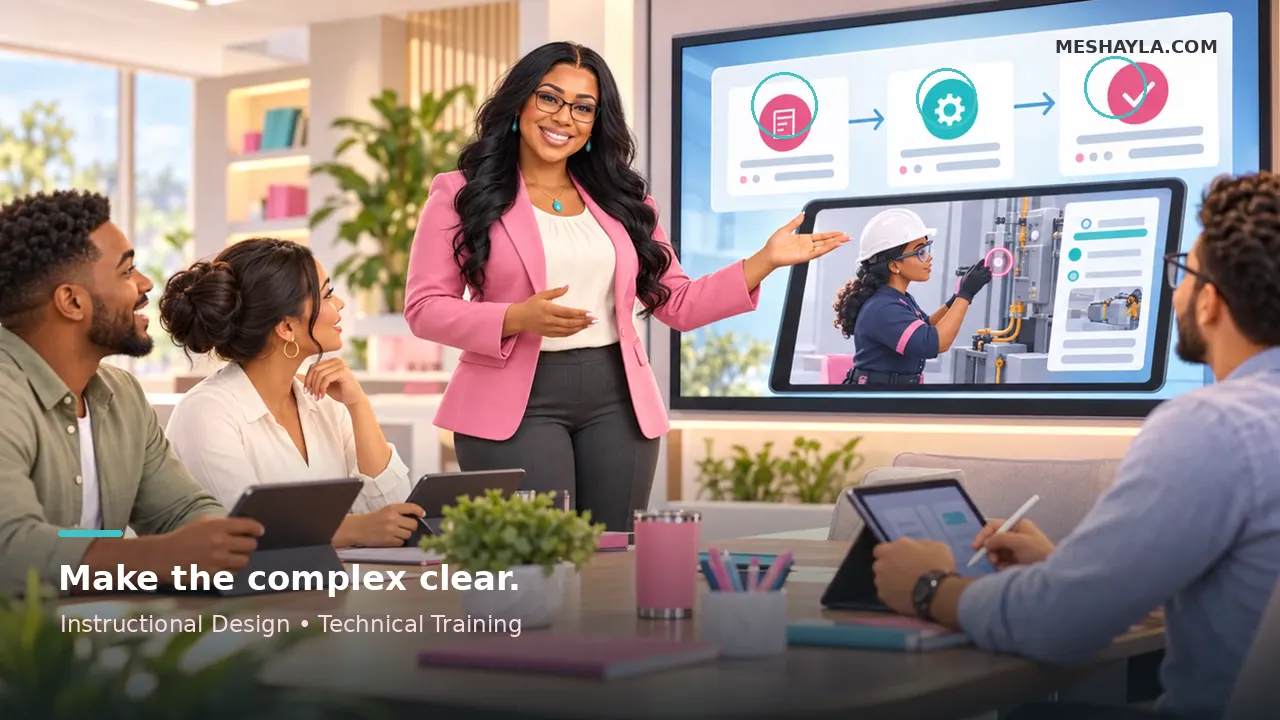
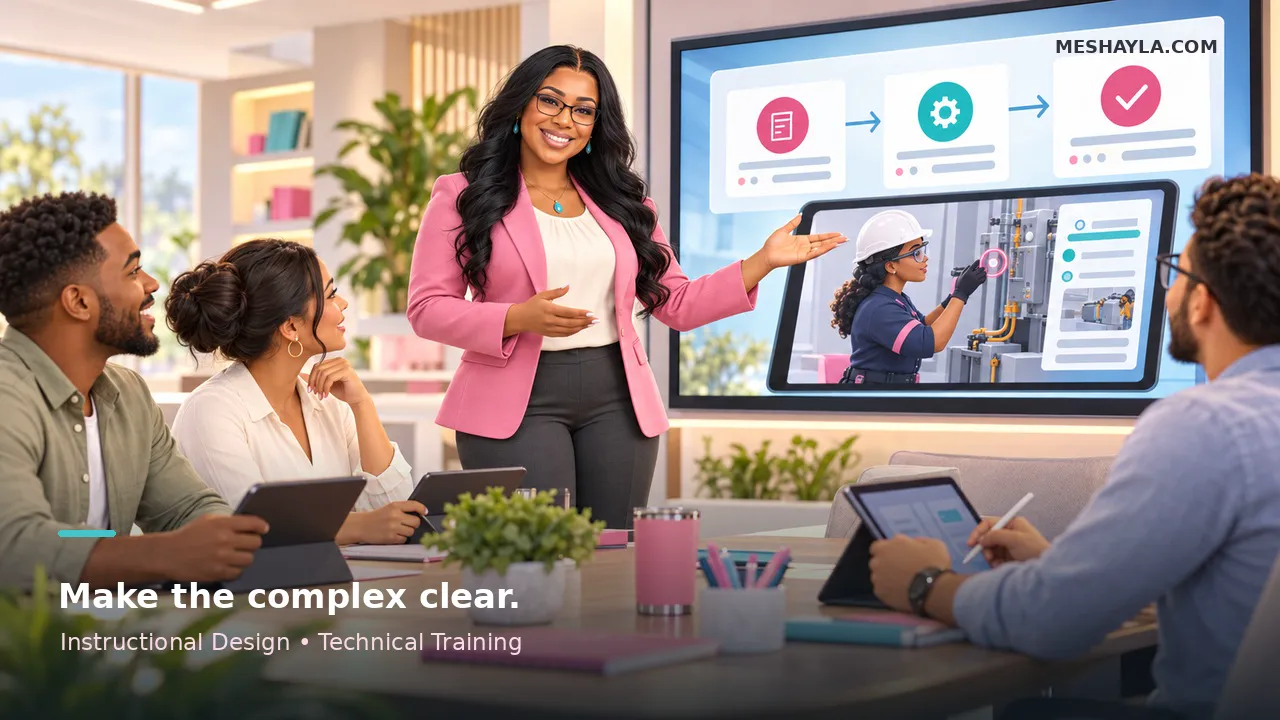
Video: add captions, transcript, download link and reduced-motion still
Claude-Session: https://claude.ai/code/session_01N1RdFvC48pBb1oBZrdVaqt

diff --git a/index.html b/index.html
@@ -475,7 +475,9 @@ footer{background:#0F0E0C;padding:2rem 3.5rem;display:flex;align-items:center;ju
 <section class="home-video" id="watch"><div class="hv-in">
 <div class="s-pill">Watch</div>
 <h2 class="s-h2">Meet Meshayla in 35 seconds</h2>
-<div class="hv-frame"><video controls preload="none" playsinline poster="/assets/video/meshayla-commercial-poster.webp" width="1280" height="720" aria-label="Meshayla Kemp commercial, 35 seconds"><source src="/assets/video/meshayla-commercial.mp4" type="video/mp4">Your browser does not support video. <a href="/assets/video/meshayla-commercial.mp4">Download the video</a>.</video></div>
+<div class="hv-frame"><video controls playsinline preload="none" poster="/assets/video/meshayla-commercial-poster.webp" width="1280" height="720" aria-label="Meshayla Kemp introduction"><source src="/assets/video/meshayla-commercial.mp4" type="video/mp4"><track kind="captions" src="/assets/video/meshayla-commercial.vtt" srclang="en" label="English song captions">Your browser does not support video. <a href="/assets/video/meshayla-commercial.mp4">Download the video</a>.</video><img class="hv-still" src="/assets/video/meshayla-commercial-poster.webp" width="1280" height="720" alt="Meshayla facilitating a technical training workshop" loading="lazy"></div>
+<details class="hv-tr"><summary>Song transcript</summary><p>Meh-shay-la Kemp, M-B-A. Master&rsquo;s in Education, here to light the way. Change management, technical training too. A-I architect, game developer, building for you. Learning, creativity, purpose. That&rsquo;s what I bring, ooh, that&rsquo;s what I bring. Come on in, let&rsquo;s build something beautiful.</p></details>
+<p class="hv-dl"><a href="/assets/video/meshayla-commercial.mp4" download>Download the video</a></p>
 </div></section>
 
 <!-- AI SOLUTION ARCHITECTURE (teaser) -->

diff --git a/assets/css/enhance.css b/assets/css/enhance.css
@@ -123,3 +123,10 @@ nav.scrolled{box-shadow:0 6px 24px rgba(28,26,23,.10);background:rgba(253,250,24
 .hv-frame{margin-top:1.4rem;border-radius:16px;overflow:hidden;box-shadow:0 12px 36px rgba(0,0,0,.15);background:#000;aspect-ratio:16/9;}
 .hv-frame video{display:block;width:100%;height:100%;object-fit:cover;}
 @media(max-width:960px){.home-video{padding:2.5rem 1.5rem;}}
+.hv-still{display:none;width:100%;height:auto;}
+@media(prefers-reduced-motion:reduce){.hv-frame video{display:none;}.hv-still{display:block;}}
+.hv-tr{margin-top:1rem;text-align:left;max-width:680px;margin-inline:auto;}
+.hv-tr summary{cursor:pointer;font-weight:600;}
+.hv-tr p,.hv-dl{font-size:14px;line-height:1.6;}
+.hv-dl{margin-top:.6rem;}
+.hv-dl a{color:var(--green2,#4a7c2a);}
